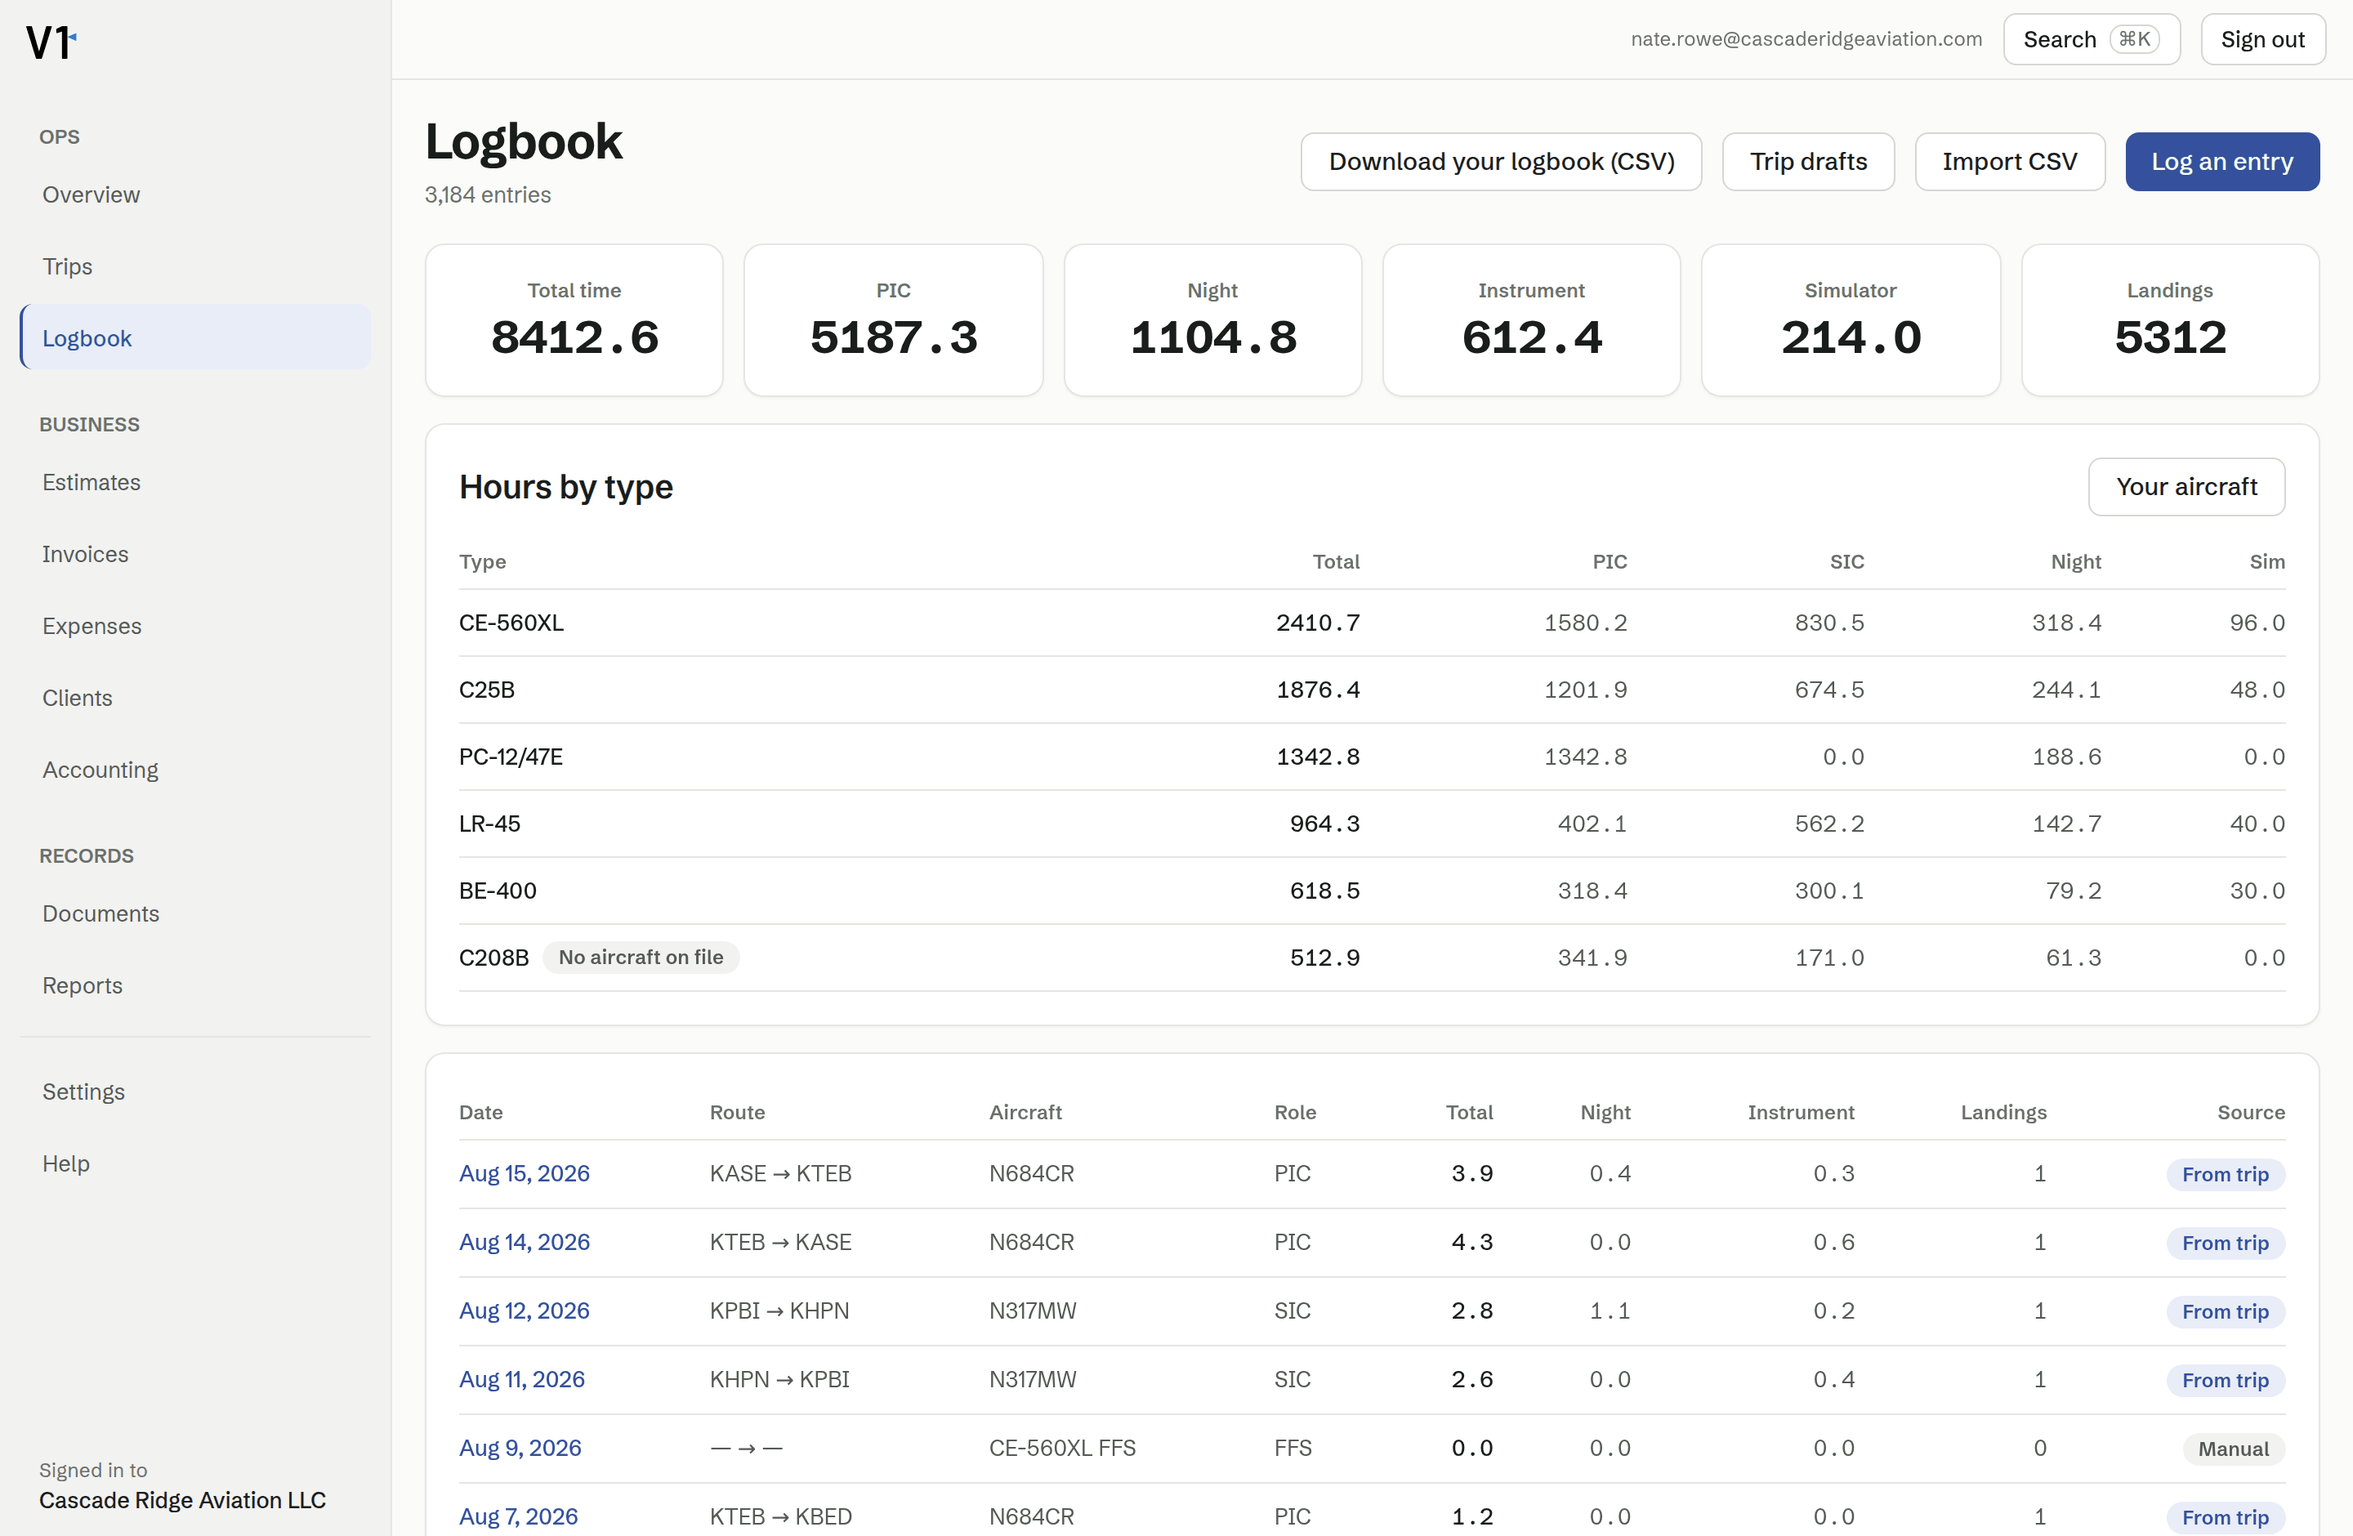
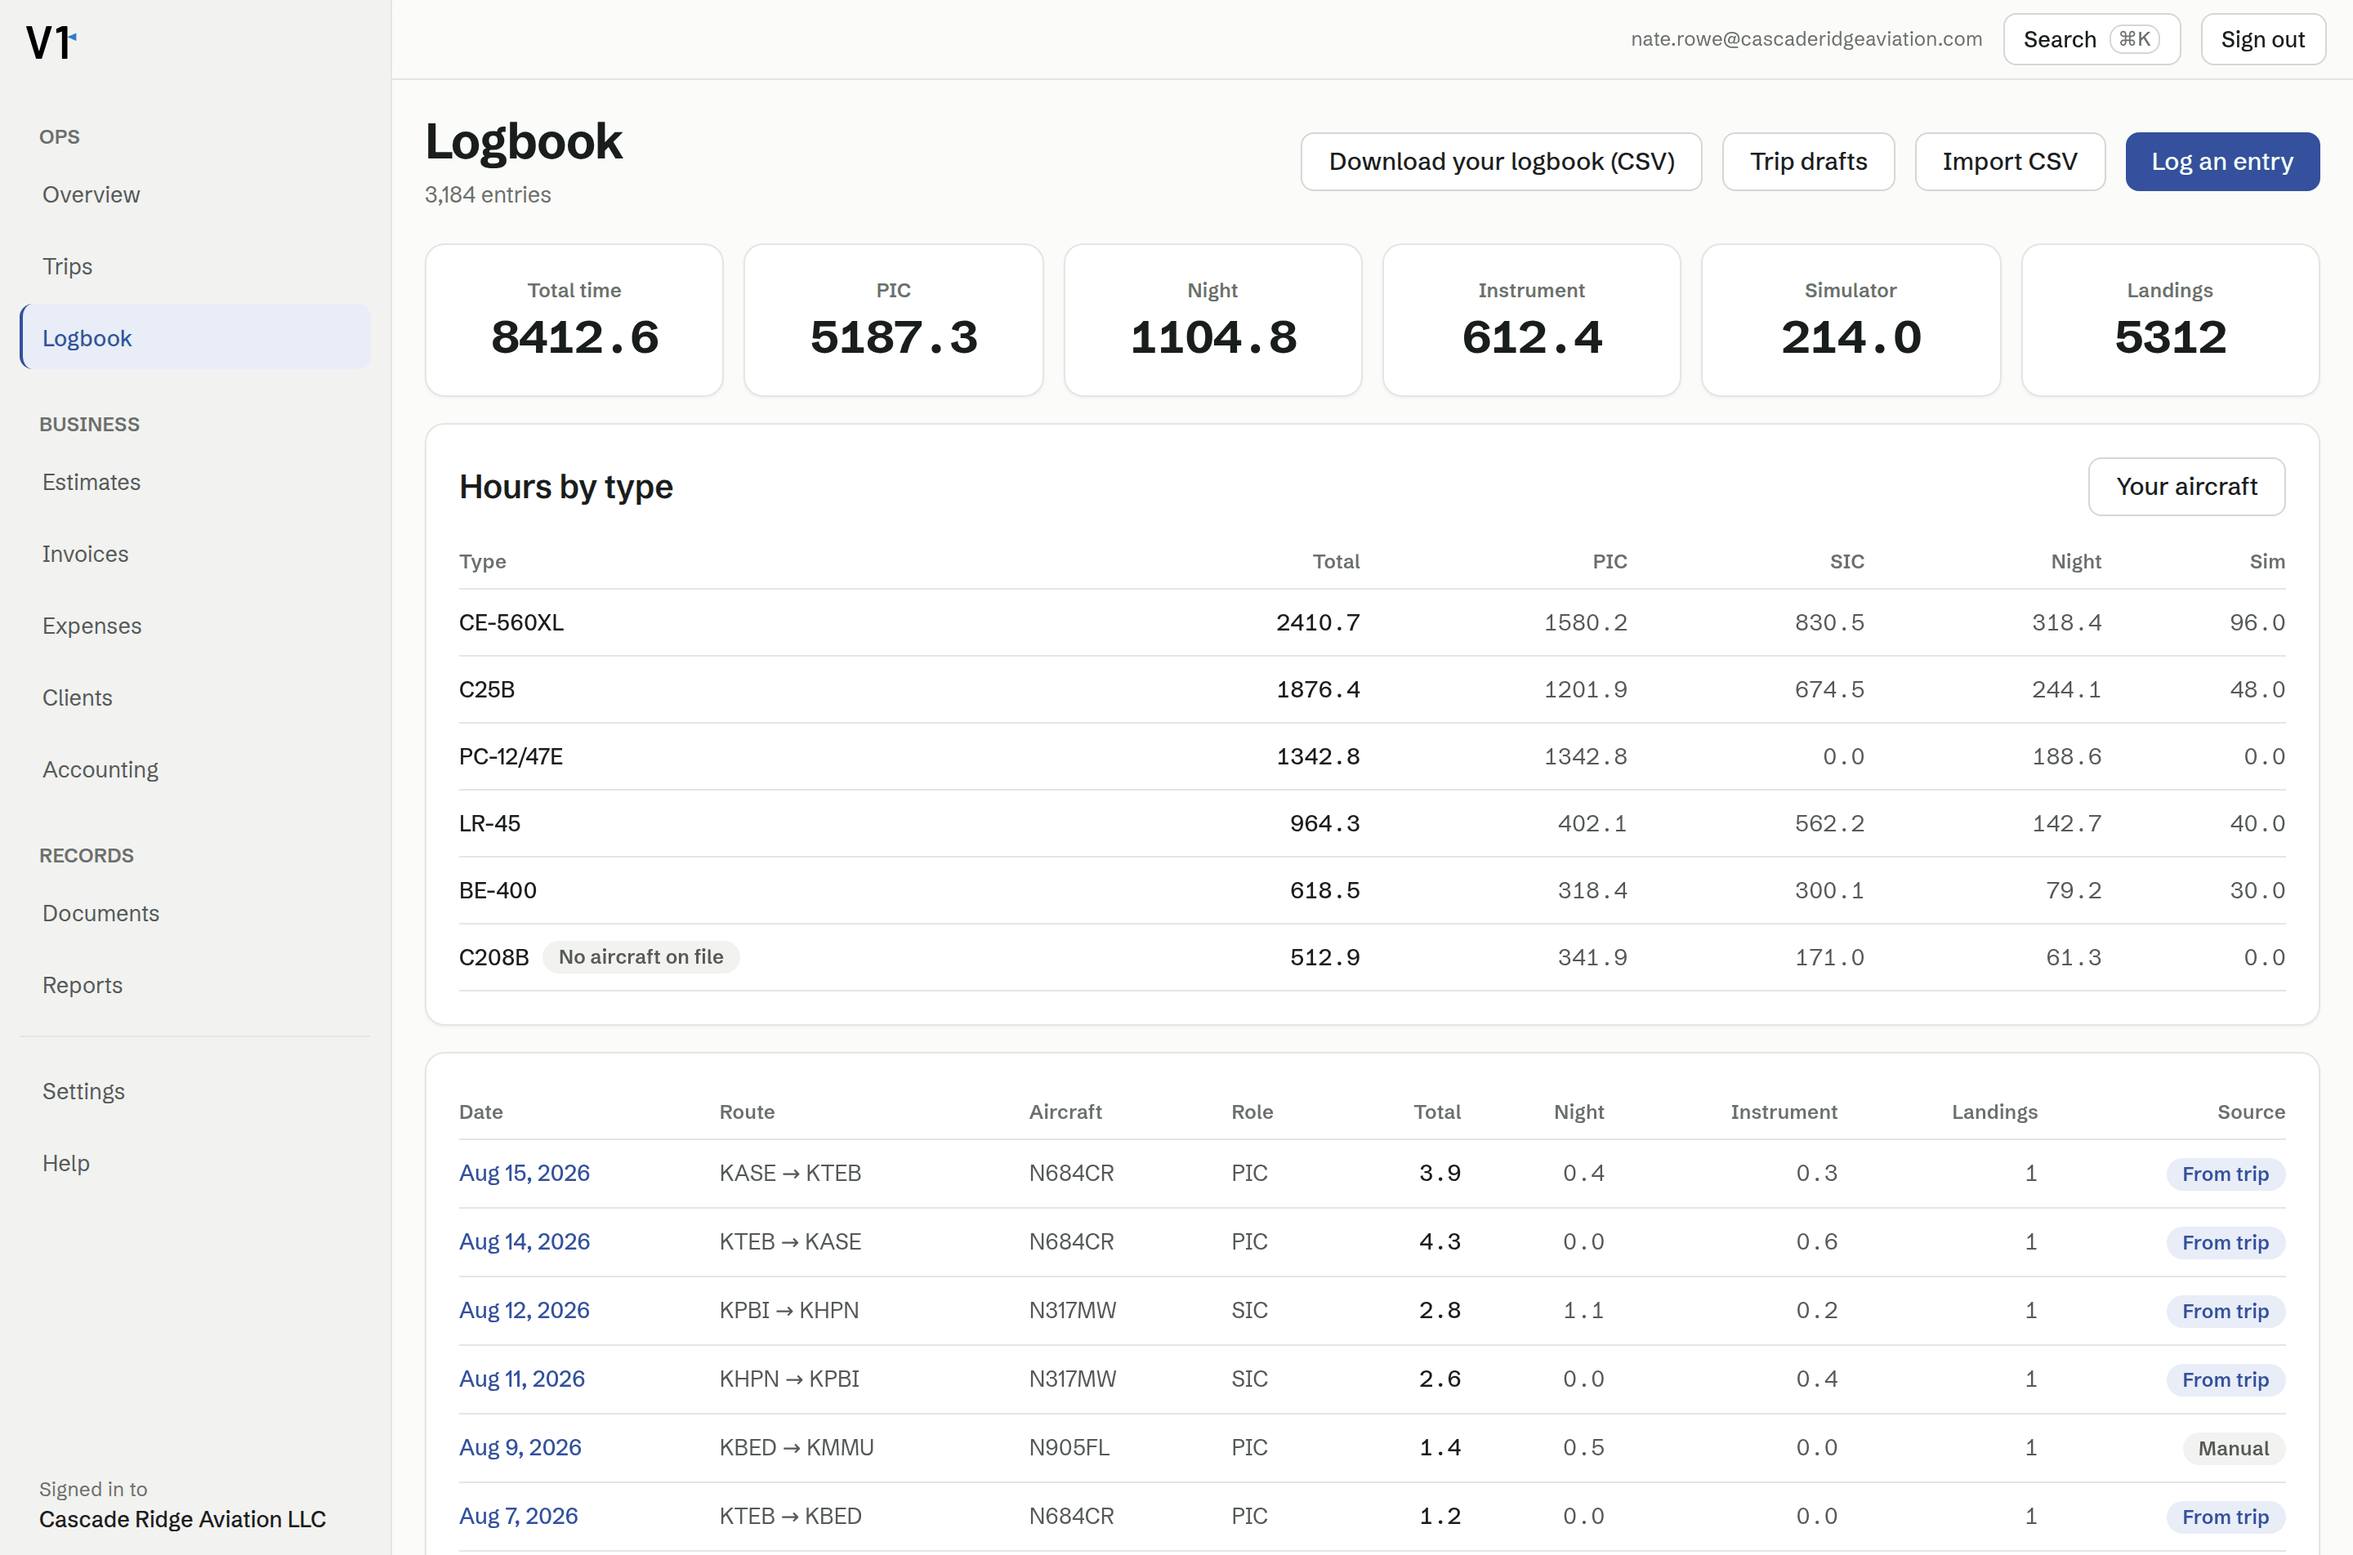
Marketing shots: retune the captures, shrink the files
Continued work on the landing-page imagery. Fixture and capture-height
adjustments so each image ends on a panel boundary, and the PNGs are now
149 / 166 / 111 KB (overview / invoice / logbook), down from 453 / 474 /
276 — these ship to every visitor on the landing page, so the weight is
part of whether they are worth showing at all.

typecheck and tokens:verify clean. Landing-page integration still to come.

Claude-Session: https://claude.ai/code/session_01D5UhPyYv863wQDLJtvEgAt

diff --git a/app/(dev)/marketing-shots/fixtures.ts b/app/(dev)/marketing-shots/fixtures.ts
@@ -475,23 +475,27 @@ export const LOGBOOK_ENTRIES: LogbookEntryCells[] = [
     source: "trip",
   },
   {
+    // Hand-logged rather than drafted off a trip — a personal repositioning
+    // leg, which is what the "Manual" source badge is for. A wholly-
+    // simulator session is deliberately NOT in this set: it carries no
+    // aircraft time and no crew role (61.51), so every column this table
+    // shows would read 0.0 and the row would look like a broken record
+    // rather than a correct one. The product handles it; a screenshot is
+    // the wrong place to explain it.
     id: "e-9005",
     entry_date: "2026-08-09",
-    from_icao: null,
-    to_icao: null,
-    aircraft_ident: "CE-560XL FFS",
-    // 61.51: a wholly-simulator session has no crew role, because there is
-    // no aircraft to be pilot in command of. The device type is what the
-    // real screen shows in the Role column instead.
-    role: null,
-    simulator_device_type: "ffs",
-    total_time: 0.0,
-    night_time: 0.0,
+    from_icao: "KBED",
+    to_icao: "KMMU",
+    aircraft_ident: "N905FL",
+    role: "PIC",
+    simulator_device_type: null,
+    total_time: 1.4,
+    night_time: 0.5,
     instrument_actual_time: 0.0,
-    instrument_simulated_time: 0.0,
+    instrument_simulated_time: null,
     day_landings_full_stop: 0,
     day_landings_touch_go: 0,
-    night_landings_full_stop: 0,
+    night_landings_full_stop: 1,
     night_landings_touch_go: 0,
     source: "manual",
   },
